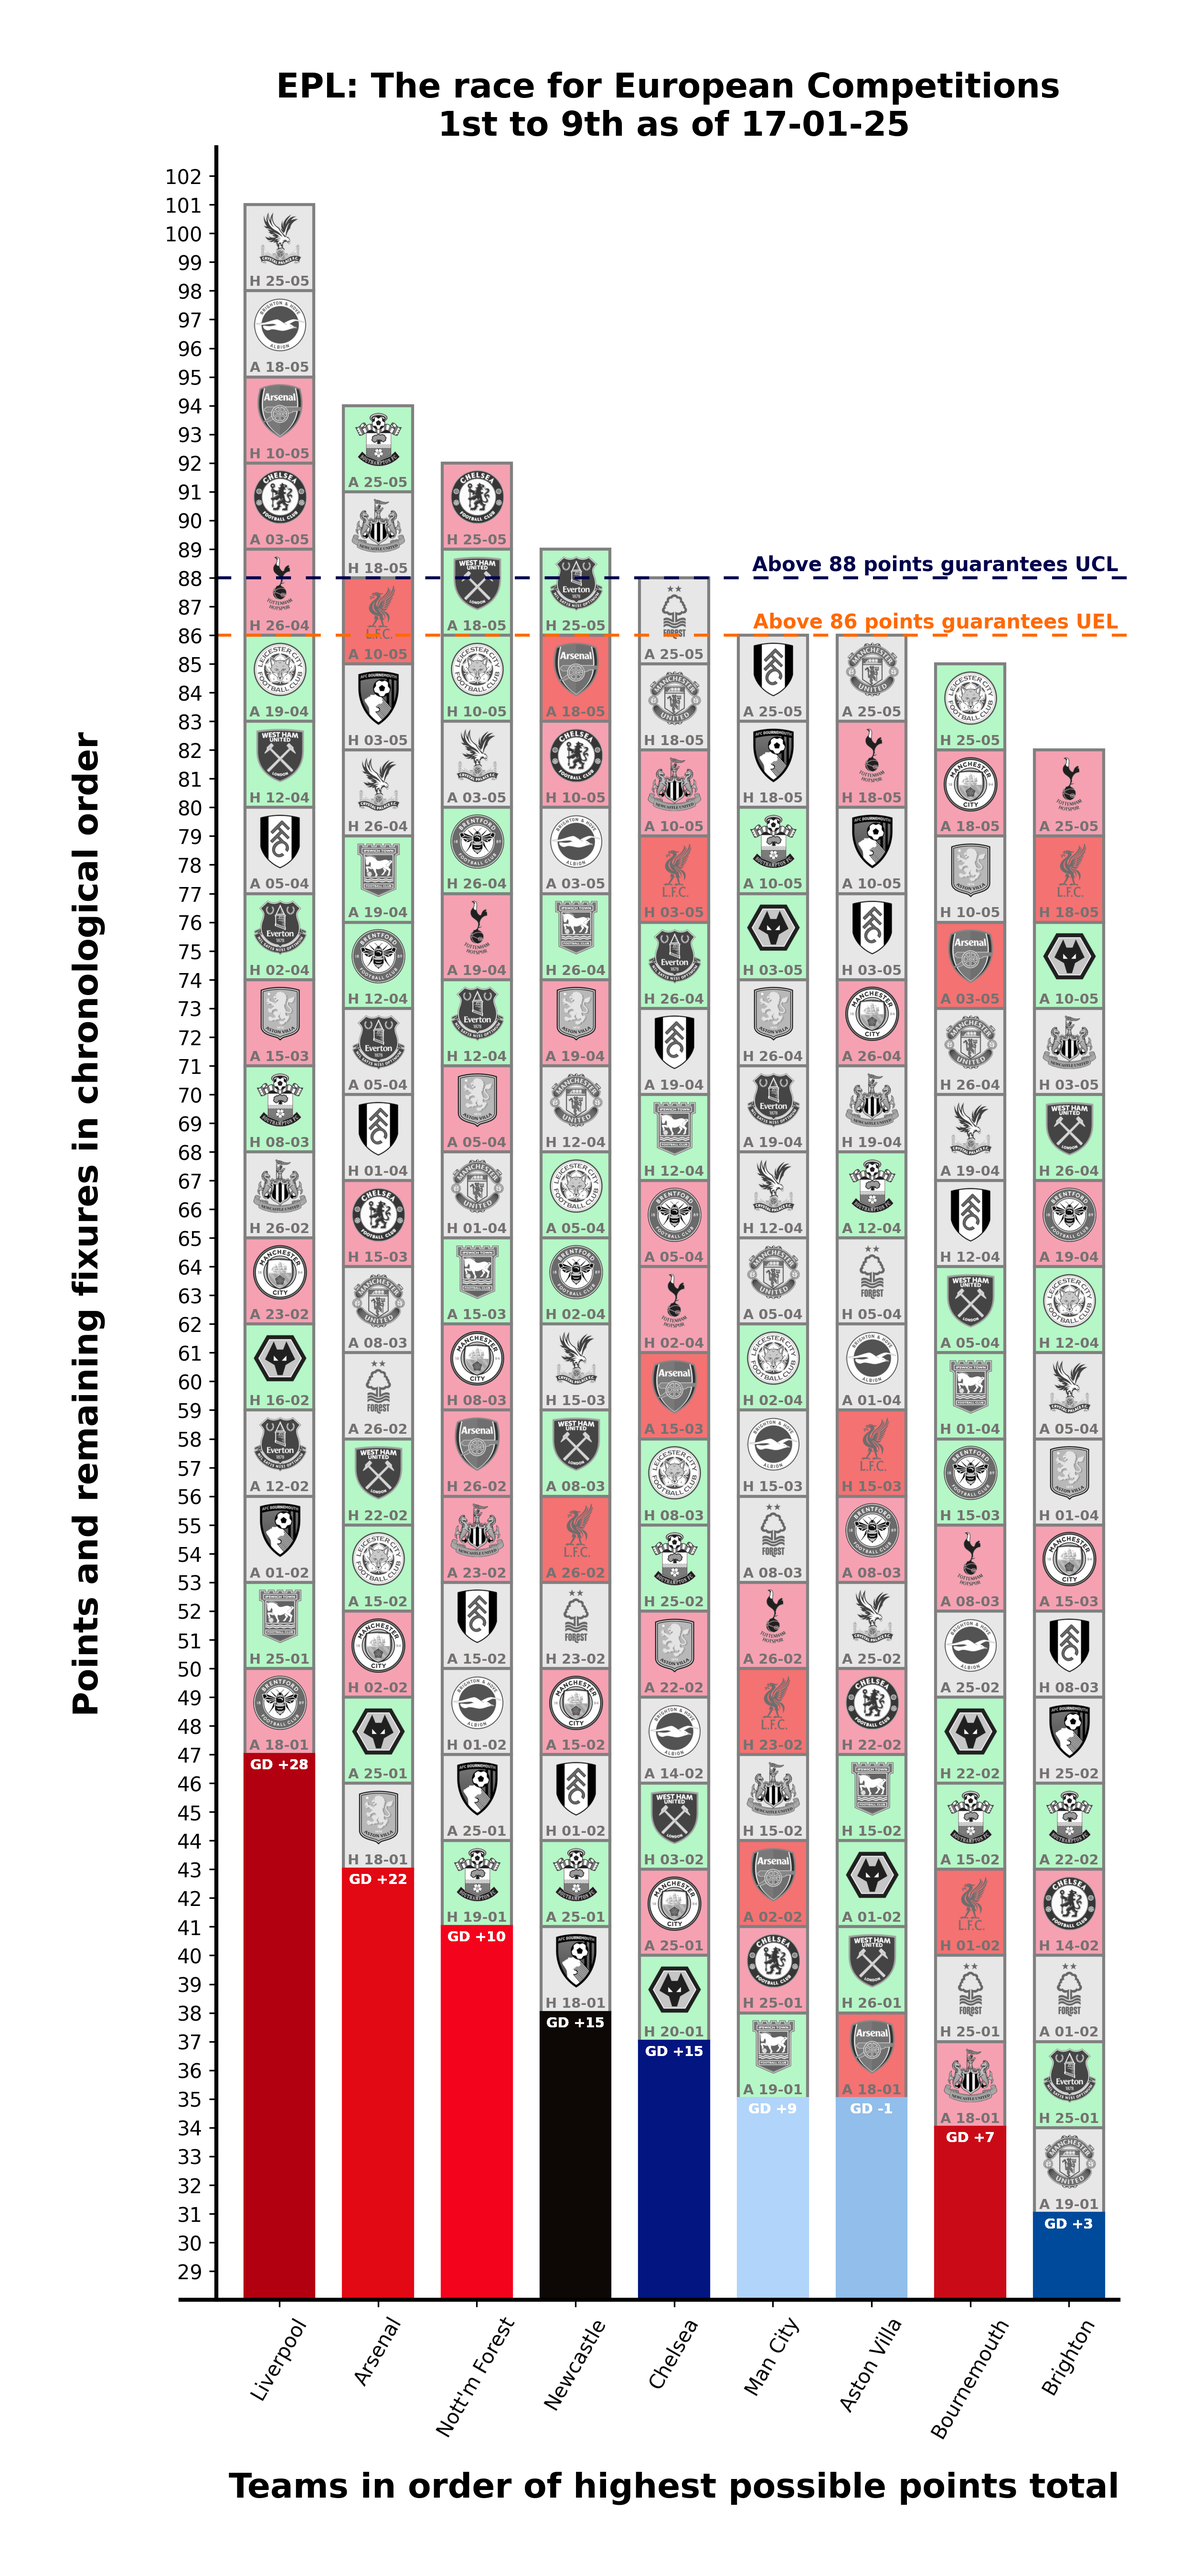
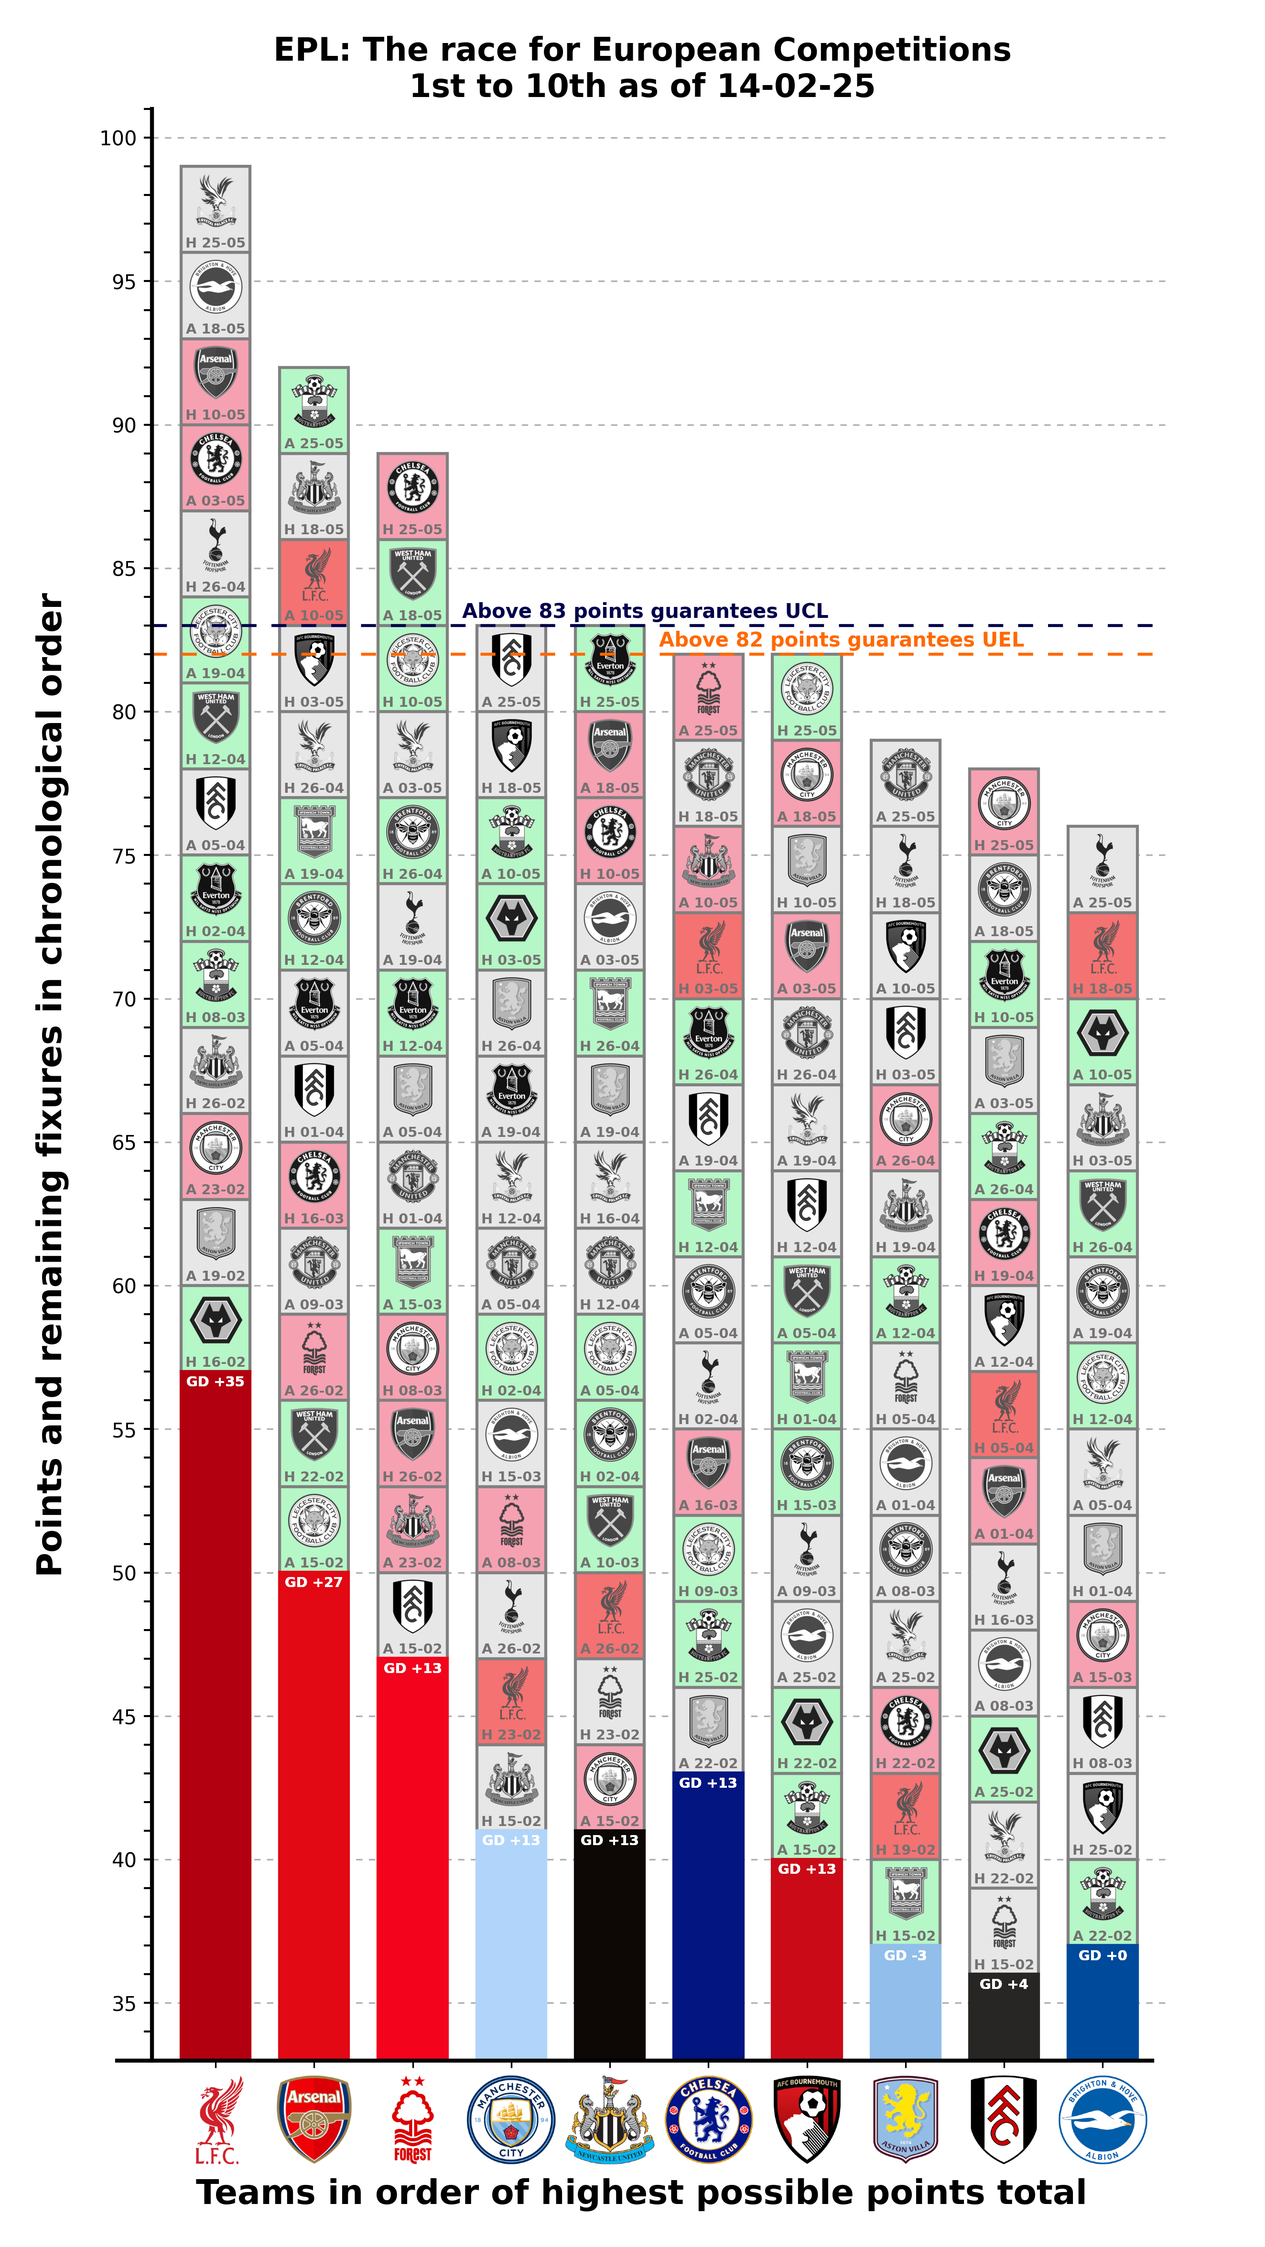
Added EFL Championship functionality; Improved image readability; Refactored to improve modularity; Updated example image

diff --git a/tables_auto.py b/tables_auto.py
@@ -1,14 +1,90 @@
 """Code to generate a bar graph of English Premier League teams who can still qualify for Europe"""
 
 # importing package
-from datetime import datetime
+from datetime import datetime, timezone
+import os
 from matplotlib.offsetbox import OffsetImage, AnnotationBbox
+import matplotlib.ticker as plticker
+from matplotlib.ticker import AutoMinorLocator
 import matplotlib.pyplot as plt
 import numpy as np
 import requests
 import pandas as pd
+from dotenv import load_dotenv
+from PIL import Image
 
 pd.set_option('display.max_columns', None)
+
+
+def generate_efl_data():
+    """Generate data for the EFL Championship"""
+
+    # Load API Key from .env file in the same location as this file. API used: https://www.football-data.org/
+    load_dotenv()
+    FOOTBALL_DATA_KEY = os.getenv('FOOTBALL_DATA_KEY')
+    pd.set_option('future.no_silent_downcasting', True)
+
+    url = 'https://api.football-data.org/v4/'
+    headers = { 'X-Auth-Token': FOOTBALL_DATA_KEY }
+
+    fdorg = requests.get(url+'competitions/ELC/matches?season=2024',
+                         headers=headers, timeout=10).json()
+    fixtures = pd.json_normalize(fdorg['matches'])
+
+    fixtures = fixtures.rename(columns={'homeTeam.id': 'team_h',
+                                        'awayTeam.id': 'team_a', 
+                                        'score.fullTime.home': 'team_h_score', 
+                                        'score.fullTime.away': 'team_a_score',
+                                        'status': 'finished',
+                                        'awayTeam.name': 'name_x',
+                                        'homeTeam.name': 'name_y',
+                                        'utcDate': 'kickoff_time'
+                                        })
+    fixtures = fixtures.replace({'FINISHED': True,
+                                 'TIMED': False,
+                                 'IN_PLAY': False,
+                                 'PAUSED': False,
+                                 'SCHEDULED': False})
+
+    fix_started = []
+
+    for row in fixtures.itertuples():
+        str_time = row.kickoff_time
+        fix_time = datetime.strptime(str_time, "%Y-%m-%dT%H:%M:%SZ").replace(tzinfo=timezone.utc)
+        cur_time = datetime.now(timezone.utc)
+
+        if cur_time > fix_time:
+            fix_started.append(True)
+        else:
+            fix_started.append(False)
+
+    fixtures['started'] = fix_started
+    fixtures['finished_provisional'] = fixtures['finished']
+
+    teams = requests.get(url+'competitions/ELC/standings', headers=headers, timeout=10).json()
+    teams = pd.json_normalize(teams['standings'], 'table')
+    teams = teams.rename(columns={'team.shortName': 'short_name'})
+    teams.sort_values('team.name', inplace=True)
+
+    team_colours = ['#009ee0', '#e21a23', '#690039', '#035da9',
+                    '#009edc', '#8d8d8d', '#f8b100', '#ffdf1a',
+                    '#f28c00', '#e40f1b', '#00367a', '#00a650',
+                    '#fff500', '#143f2a', '#323c9c', '#0799d5',
+                    '#1a59a3', '#ee2227', '#4681cf', '#e1393e',
+                    '#e20025', '#030303', '#fff002', '#173675']
+    teams['colours'] = team_colours
+    teams = teams.rename(columns={'team.id': 'id'})
+
+    # create dictionary of team crests
+    team_crest = {}
+    for row in teams.itertuples():
+        crest_id = f"https://crests.football-data.org/{row.id}.png"
+        loaded_crest = Image.open(requests.get(crest_id, stream=True, timeout=10).raw).convert('RGBA')
+        team_crest[row.id] = loaded_crest
+
+    return teams, fixtures, team_crest
+
+
 
 
 def generate_data():
@@ -50,7 +126,16 @@ def generate_data():
         right_on='id'
     )
 
-    return teams, df2
+    # create dictionary of team crests
+    team_crest = {}
+    for row in teams.itertuples():
+        crest_id = f"https://raw.githubusercontent.com/MatthewG375/Prem-Table/refs/heads/main/Logos/Colour/{row.id}.png"
+        crest_load = Image.open(requests.get(crest_id, stream=True, timeout=10).raw).convert('RGBA')
+        # crest_name = f"Logos/Colour/{row.id}.png"
+        # crest_load = Image.open(crest_name)
+        team_crest[row.id] = crest_load
+
+    return teams, df2, team_crest
 
 
 def get_team_record(team_id, df2):
@@ -109,8 +194,9 @@ def get_team_record(team_id, df2):
         gd = str(gd)
 
     # fixture is in the future if it has not: Finished, Provisionally Finished, or Started
-    remaining_df = df2.loc[ ((~df2['finished'])&(~df2['finished_provisional'])&(~df2['started'])) &
-                       ((df2['team_h'] == team_id) | (df2['team_a'] == team_id)) ]
+    remaining_df = df2.loc[ ((~df2['finished']) & (~df2['finished_provisional']) &
+                             ( (df2['started'] == False) | (df2['started'].isnull()) )) &
+                            ((df2['team_h'] == team_id) | (df2['team_a'] == team_id)) ]
     remaining_df = remaining_df.reset_index()
 
     pts = int((w*3)+(d))
@@ -128,8 +214,9 @@ def get_team_record(team_id, df2):
 
 def get_remaining_fixtures(team_id, df2):
     """Takes a team ID and returns a pandas dataframe of remaining fixtures."""
-    filtered_df = df2.loc[ ((~df2['finished'])&(~df2['finished_provisional'])&(~df2['started'])) &
-                       ((df2['team_h'] == team_id) | (df2['team_a'] == team_id)) ]
+    filtered_df = df2.loc[ ((~df2['finished']) & (~df2['finished_provisional']) &
+                            ( (df2['started'] == False) | (df2['started'].isnull()) )) &
+                           ((df2['team_h'] == team_id) | (df2['team_a'] == team_id)) ]
     filtered_df = filtered_df.reset_index()
     #filtered_df[['name_y','team_h_score', 'team_a_score', 'name_x']]
 
@@ -144,16 +231,25 @@ def get_remaining_fixtures(team_id, df2):
             location = "H"
             oppos = row.team_a
             tname = row.name_x
-            opp_diff = row.team_h_difficulty
+            try:
+                opp_diff = row.team_h_difficulty
+            except AttributeError:
+                opp_diff = 3
         else:
             location = "A"
             oppos = row.team_h
             tname = row.name_y
-            opp_diff = row.team_a_difficulty
+            try:
+                opp_diff = row.team_a_difficulty
+            except AttributeError:
+                opp_diff = 3
 
-        date = row.kickoff_time[5:10]
-        left, right = date.split('-')
-        newdate = f"{location} {right}-{left}"
+        if row.kickoff_time is None:
+            newdate = "TBC"
+        else:
+            date = row.kickoff_time[5:10]
+            left, right = date.split('-')
+            newdate = f"{location} {right}-{left}"
         # print(newdate)
         remaining_fix.append(newdate)
         fix_location.append(location)
@@ -186,7 +282,7 @@ def generate_table(pos_one=1, pos_two=20):
     pos_two -- the second position in the table to show on the image (default 20)
     """
     # use the global teams variable
-    teams, df2 = generate_data()
+    teams, df2, team_crest = generate_data()
 
 
     # add max points row, goal difference, and goals scored to dataframe (for H2H tiebreakers)
@@ -212,7 +308,7 @@ def generate_table(pos_one=1, pos_two=20):
 
     # convert table position to usable numbers
     remove_from_top = pos_one - 1
-    remove_from_bottom = 20 - pos_two
+    remove_from_bottom = len(teams_all.index) - pos_two
 
     teams.drop(teams.tail(remove_from_bottom).index, inplace=True)
     teams.drop(teams.head(remove_from_top).index, inplace=True)
@@ -224,6 +320,10 @@ def generate_table(pos_one=1, pos_two=20):
     default_x = 20
 
     x_offset = {
+        24: 0.0120,
+        23: 0.0125,
+        22: 0.0135,
+        21: 0.0140,
         20: 0.0150,
         19: 0.0160,
         18: 0.0175,
@@ -255,23 +355,21 @@ def generate_table(pos_one=1, pos_two=20):
     # Fixture Difficulty Colours
     colours = {2: '#b5f7c6', 3: '#e7e7e7', 4: '#f5a1b2', 5: '#f47272'}
 
-    # create dictionary of team crests
-    team_crest = {}
-    for row in teams_all.itertuples():
-        crest_name = f"Logos/{row.id}.png"
-        crest_load = plt.imread(crest_name)
-        team_crest[row.id] = crest_load
-
     # loop for every team that needs a bar
     for row in teams.itertuples():
         points, max_pts, goal_difference, goals_for = get_team_record(row.id, df2)
         goal_difference = f'GD {goal_difference}'
 
+        # Calculate points deductions
+        if row.id == 356: # SHU 2pt deduction
+            points -= 2
+            max_pts -= 2
+
         # update lowest theoretical points total if new teams is lower
         theory_min = min(theory_min, points)
 
         # create bar for current points, with team colour
-        cpts = plt.bar(row.short_name, points, 
+        cpts = plt.bar(row.short_name, points,
                        color=row.colours, edgecolor=row.colours, width=barwidth)
         bot = points
 
@@ -295,7 +393,7 @@ def generate_table(pos_one=1, pos_two=20):
                 ytop = y + h/1.09
 
                 # plot the team logo and the fixture date
-                imdis =  team_crest[fx.opposition_id]
+                imdis =  team_crest[fx.opposition_id].convert('LA')
                 plt.imshow(imdis, extent=[xleft, xright, ybot, ytop], aspect='auto', zorder=2)
 
                 plt.text(x+w/2, y+0.18, fx.remaining_fixtures,
@@ -323,6 +421,11 @@ def generate_table(pos_one=1, pos_two=20):
 
     # get the max and min points, then add padding to graph to improve readability
     # if y height under 30, set height to 30 for better visual
+
+    # offset y axis if bottom would fall on a multiple of 5, for readability
+    if (theory_min - 3) % 5 == 0:
+        theory_min -= 1
+
     theory_max = teams['max_points'].max()
     total_y = int((theory_max + 2) - (theory_min-3))
 
@@ -346,7 +449,7 @@ def generate_table(pos_one=1, pos_two=20):
 
 
     # format position numbers
-    title_pos = [remove_from_top+1, 20 - remove_from_bottom]
+    title_pos = [remove_from_top+1, len(teams_all.index) - remove_from_bottom]
     for i, x in enumerate(title_pos):
         if x == 1:
             title_pos[i] = '1st'
@@ -417,34 +520,42 @@ def generate_table(pos_one=1, pos_two=20):
         style_uel = (0, (5,5))
         uel_offset = 0.12
 
-    plt.axhline(y=ucl_required, color='#00004b', linestyle=(0, (5, 5)) )
-    ucl_labelpos = label_space(ucl_required)
-    plt.text(ucl_labelpos, ucl_required+ucl_offset, f"Above {ucl_required} points guarantees UCL",
-             color='#00004b', ha='left', weight='semibold', size='medium', va='bottom')
+    def generate_threshold_line(threshold_num, color, line_offset, line_style, line_message):
+        plt.axhline(y=threshold_num, color=color, linestyle=line_style)
+        labelpos = label_space(threshold_num)
+        plt.text(labelpos, threshold_num+line_offset, line_message,
+                 color=color, ha='left', weight='semibold', size='medium', va='bottom')
 
-    plt.axhline(y=uel_required, color='#ff6900', linestyle=style_uel)
-    uel_labelpos = label_space(uel_required)
-    plt.text(uel_labelpos, uel_required+uel_offset, f"Above {uel_required} points guarantees UEL",
-             color='#ff6900', ha='left', weight='semibold', size='medium', va='bottom')
+    generate_threshold_line(ucl_required, '#00004b', ucl_offset, (0, (5, 5)),
+                            f"Above {ucl_required} points guarantees UCL")
 
-    # plt.axhline(y=con_required, color='#00be14', linestyle=(0, (5, 5)))
-    # con_labelpos = label_space(con_required)
-    # plt.text(con_labelpos, con_required+0.15, f"Above {con_required} points guarantees CON",
-             # color='#00be14', ha='left', weight='semibold', size='medium', va='bottom')
+    generate_threshold_line(uel_required, '#ff6900', uel_offset, style_uel,
+                            f"Above {uel_required} points guarantees UEL")
+
+    # generate_threshold_line(con_required, '#00be14', con_offset, (0, (5, 5)),
+                            # f"Above {con_required} points guarantees CON")
 
 
     # Axis modifications
     axes = plt.gca() #Getting the current axis
-    axes.tick_params(axis='x', which='major', pad=15)
+
+    # format ticks to show every multiple of 5, and add grid behind to increase readability
+    intervals = float(5)
+
+    loc = plticker.MultipleLocator(base=intervals)
+    axes.yaxis.set_major_locator(loc)
+
+    minor_locator = AutoMinorLocator(intervals)
+    axes.yaxis.set_minor_locator(minor_locator)
+
+    axes.tick_params(axis='y', which='both', length=4, width=1)
+    axes.tick_params(axis='x', which='both', pad=15)
+    axes.set_axisbelow(True)
+    axes.grid(which='major', axis='y', linestyle=(0, (4, 4)))
 
     # replace tick labels with club crests
-    def get_club(name):
-        path = f"Logos/Colour/{name}.png"
-        im = plt.imread(path)
-        return im
-
     def offset_image(coord, name, ax):
-        img = get_club(name)
+        img = team_crest[name]
         im = OffsetImage(img, zoom=0.18)
         im.image.axes = ax
 
@@ -453,9 +564,9 @@ def generate_table(pos_one=1, pos_two=20):
 
         ax.add_artist(ab)
 
-    test = teams['id'].tolist()
+    tick_replace = teams['id'].tolist()
 
-    for i, c in enumerate(test):
+    for i, c in enumerate(tick_replace):
         offset_image(i, c, axes)
 
 
